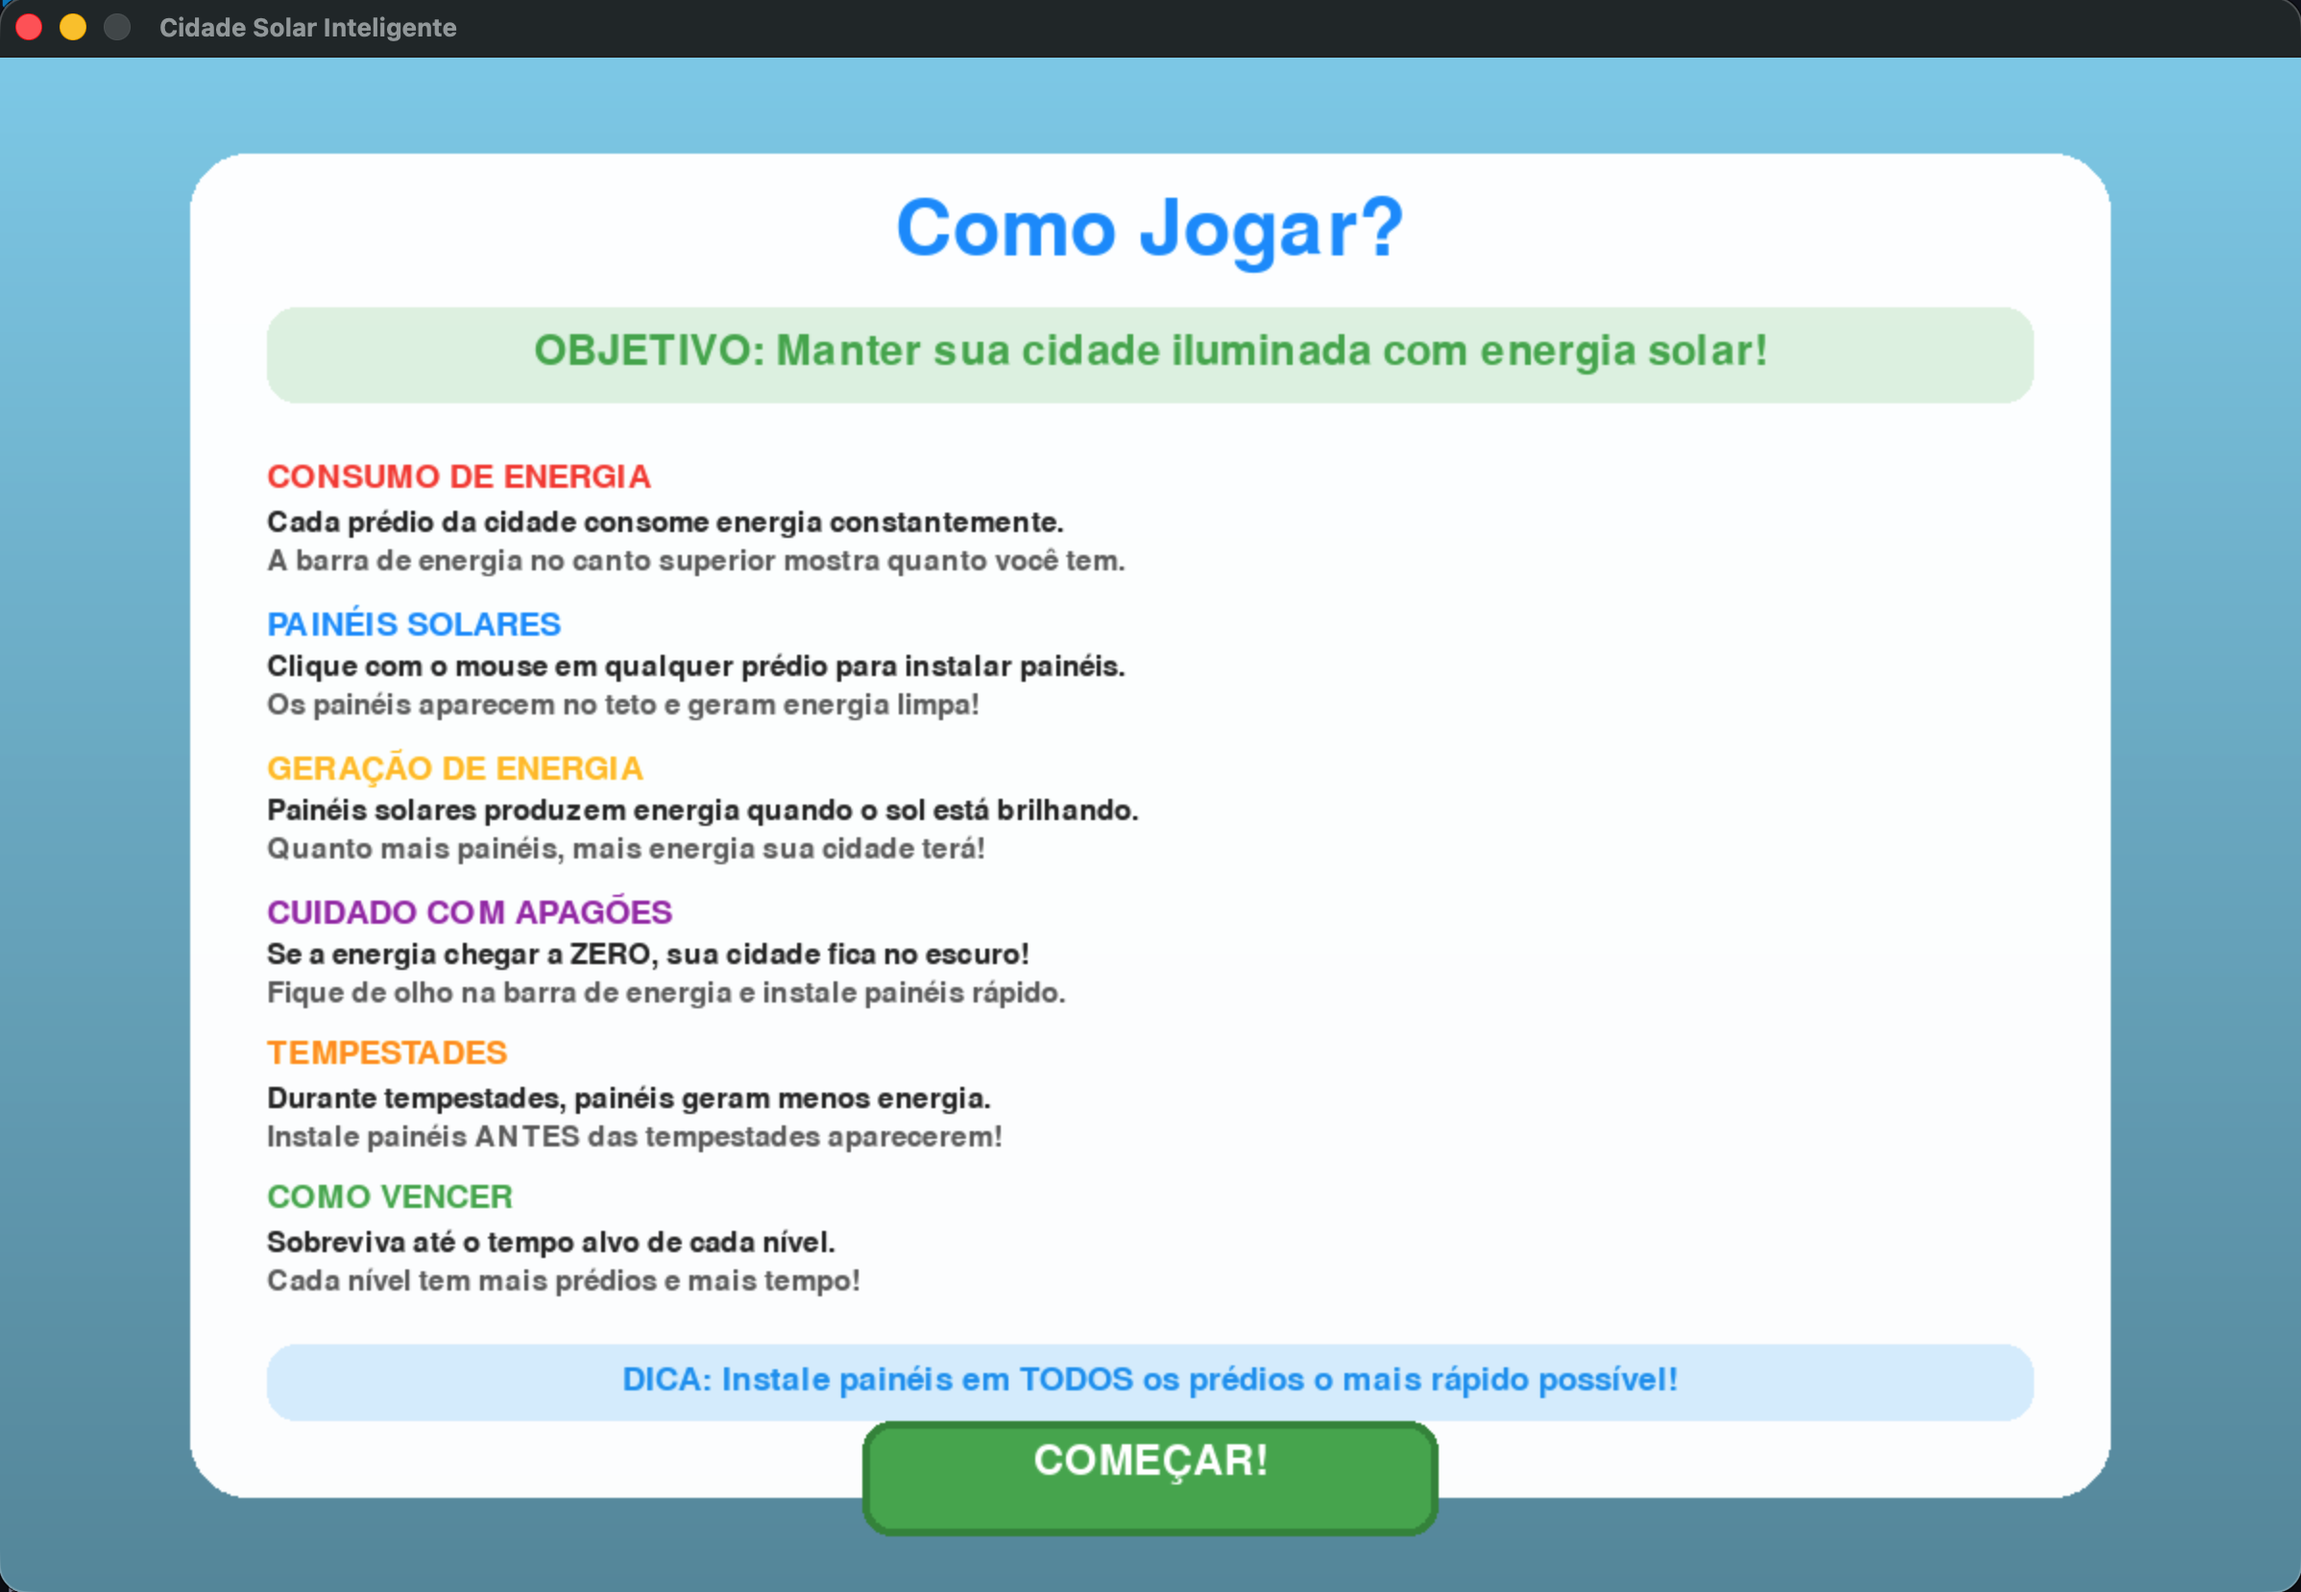
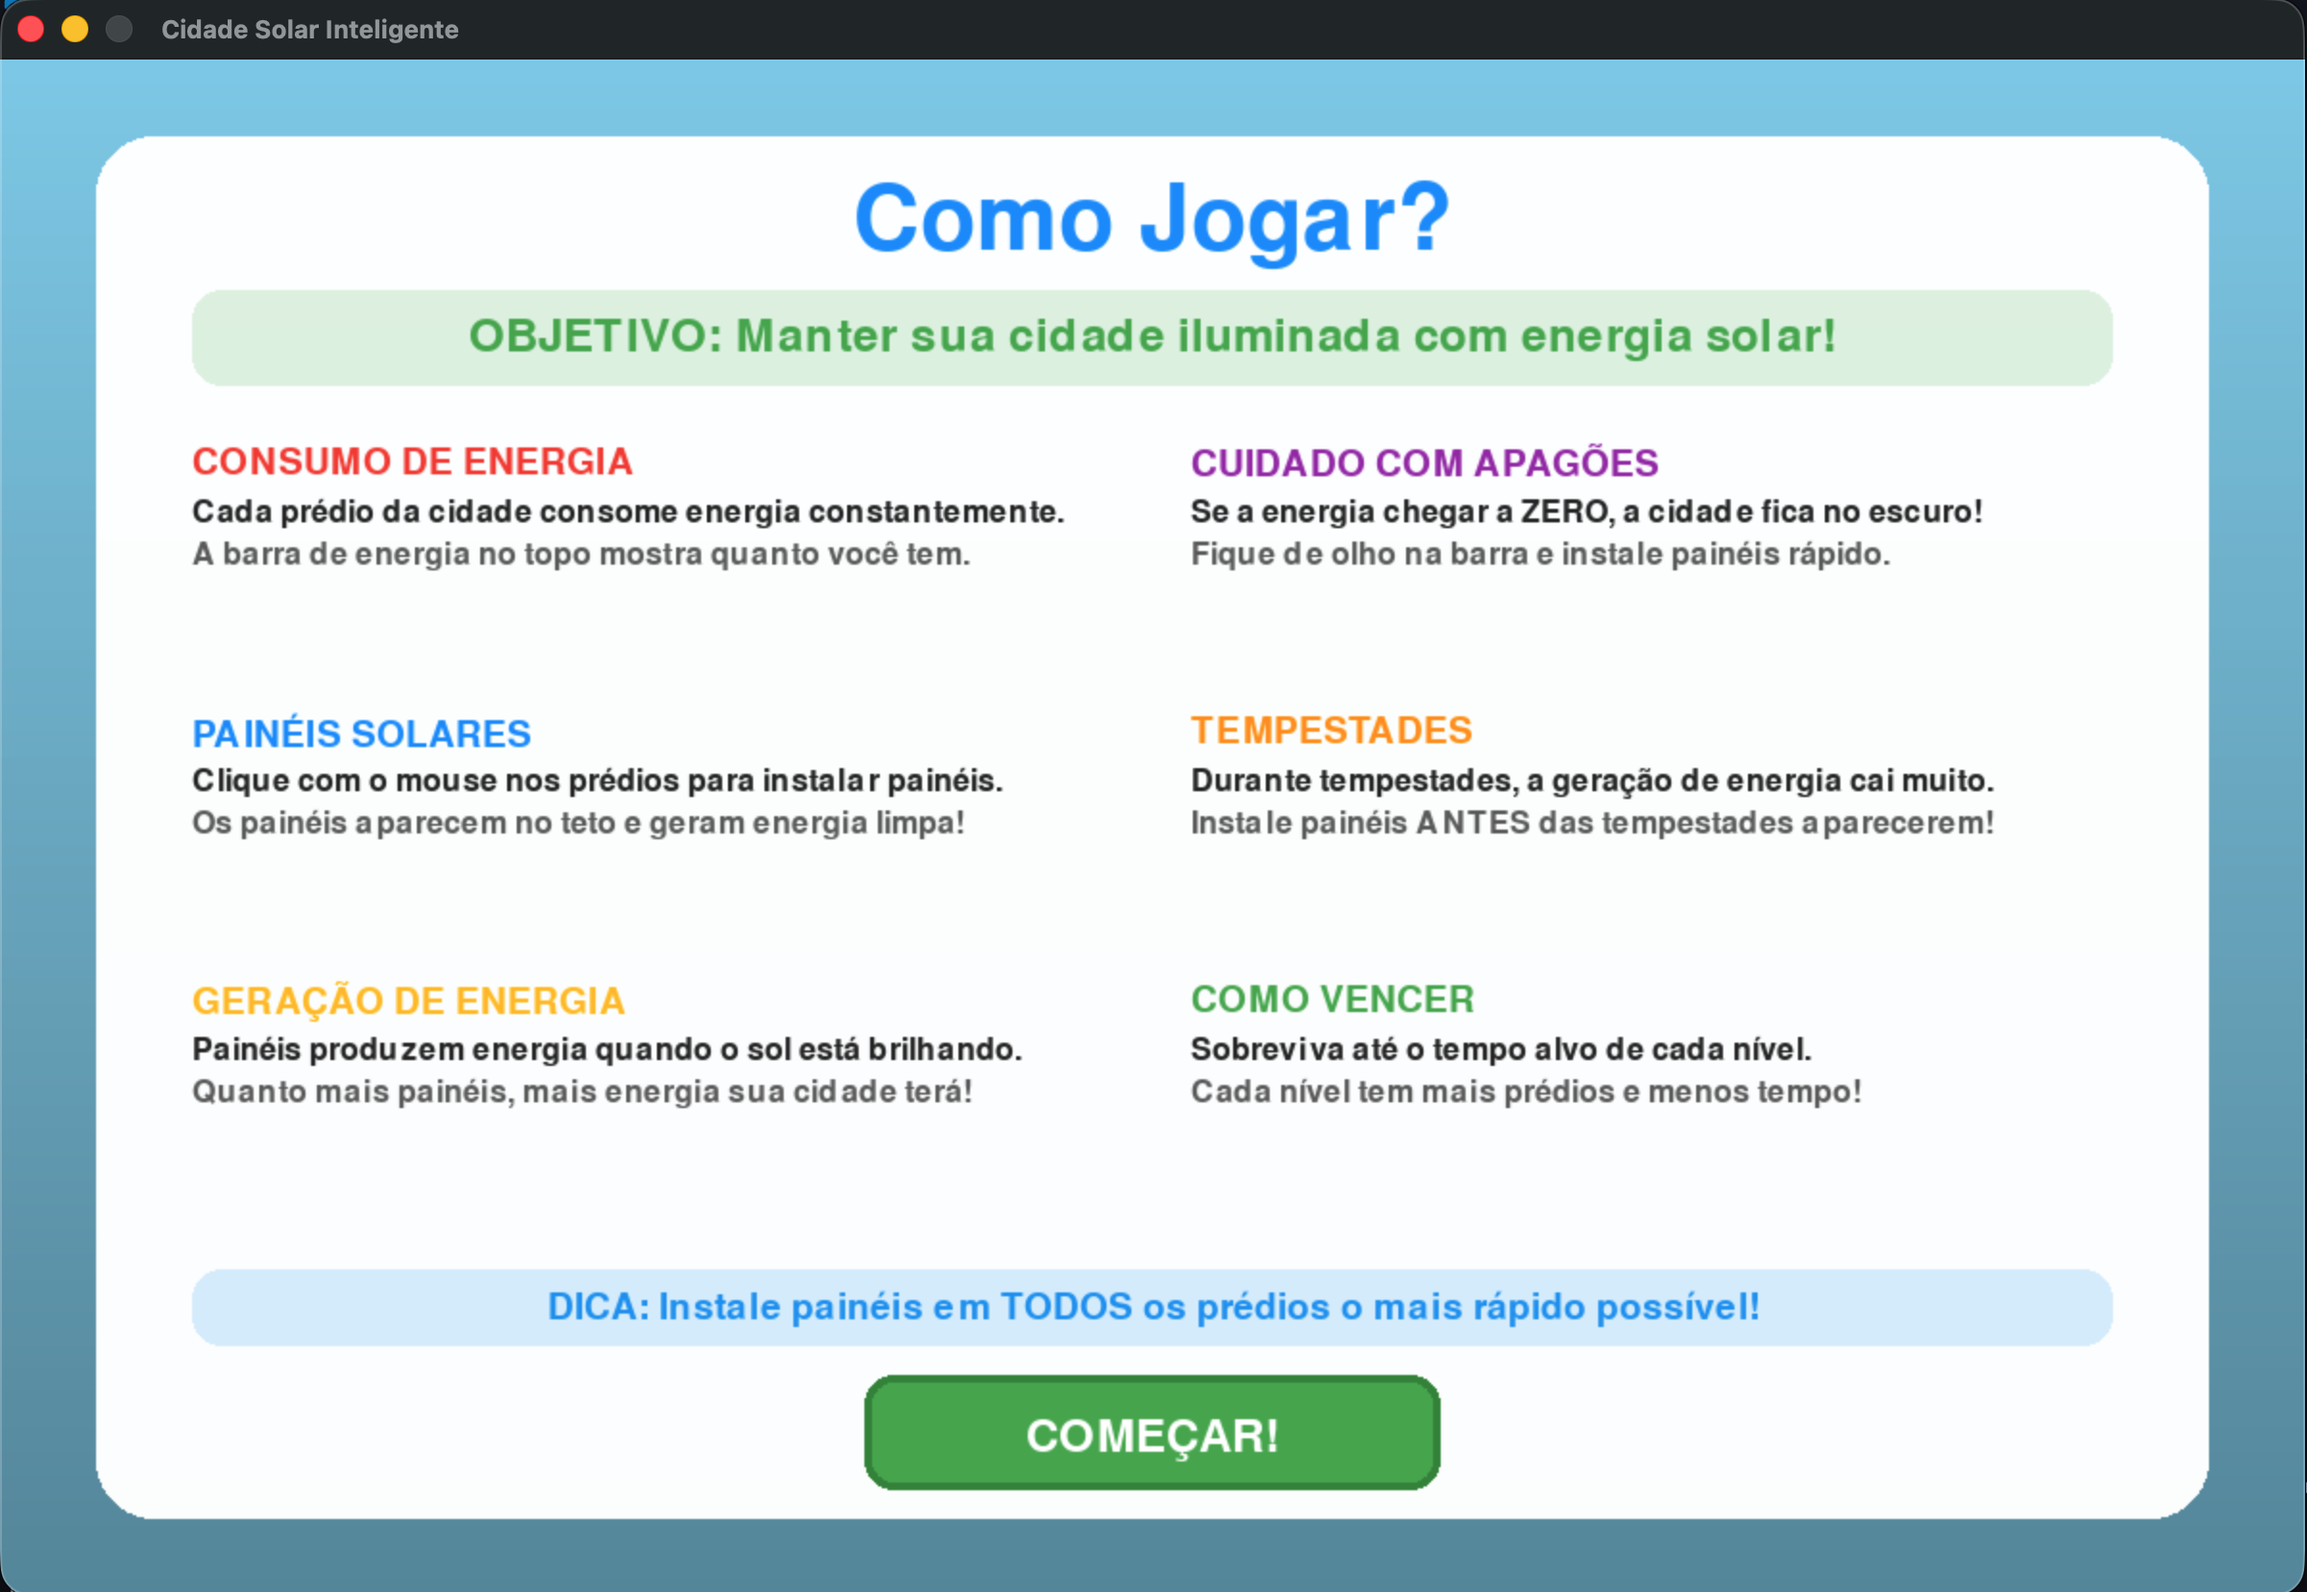
Ajustes do tutorial

diff --git a/main.py b/main.py
@@ -426,87 +426,106 @@ class Game:
             color = tuple(int(SKY_BLUE[i] * (1 - factor * 0.3)) for i in range(3))
             pygame.draw.line(surface, color, (0, y), (WIDTH, y))
 
-        panel = pygame.Surface((1000, 700), pygame.SRCALPHA)
-        pygame.draw.rect(panel, (255, 255, 255, 250), (0, 0, 1000, 700), border_radius=30)
-        surface.blit(panel, (WIDTH//2 - 500, 50))
+        # Painel de fundo
+        panel = pygame.Surface((1100, 720), pygame.SRCALPHA) # Aumentei um pouco a largura do painel
+        pygame.draw.rect(panel, (255, 255, 255, 250), (0, 0, 1100, 720), border_radius=30)
+        surface.blit(panel, (WIDTH//2 - 550, 40))
 
-        font_title = pygame.font.Font(None, 60)
-        font_subtitle = pygame.font.Font(None, 32)
-        font_normal = pygame.font.Font(None, 25)
-        font_small = pygame.font.Font(None, 22)
+        font_title = pygame.font.Font(None, 70)
+        font_subtitle = pygame.font.Font(None, 36)
+        font_normal = pygame.font.Font(None, 28) # Fonte um pouco maior
+        font_small = pygame.font.Font(None, 24)  # Fonte um pouco maior
 
         title = font_title.render("Como Jogar?", True, (30, 144, 255))
-        surface.blit(title, (WIDTH//2 - title.get_width()//2, 70))
+        surface.blit(title, (WIDTH//2 - title.get_width()//2, 60))
 
-        objective_bg = pygame.Surface((920, 50), pygame.SRCALPHA)
-        pygame.draw.rect(objective_bg, (76, 175, 80, 40), (0, 0, 920, 50), border_radius=15)
-        surface.blit(objective_bg, (WIDTH//2 - 460, 130))
+        # Faixa do Objetivo
+        objective_bg = pygame.Surface((1000, 50), pygame.SRCALPHA)
+        pygame.draw.rect(objective_bg, (76, 175, 80, 40), (0, 0, 1000, 50), border_radius=15)
+        surface.blit(objective_bg, (WIDTH//2 - 500, 120))
 
         objective = font_subtitle.render("OBJETIVO: Manter sua cidade iluminada com energia solar!", True, (76, 175, 80))
-        surface.blit(objective, (WIDTH//2 - objective.get_width()//2, 142))
+        surface.blit(objective, (WIDTH//2 - objective.get_width()//2, 132))
 
         instructions = [
             {
                 "title": "CONSUMO DE ENERGIA",
                 "desc": "Cada prédio da cidade consome energia constantemente.",
-                "detail": "A barra de energia no canto superior mostra quanto você tem.",
+                "detail": "A barra de energia no topo mostra quanto você tem.",
                 "color": (244, 67, 54)
             },
             {
                 "title": "PAINÉIS SOLARES",
-                "desc": "Clique com o mouse em qualquer prédio para instalar painéis.",
+                "desc": "Clique com o mouse nos prédios para instalar painéis.",
                 "detail": "Os painéis aparecem no teto e geram energia limpa!",
                 "color": (30, 144, 255)
             },
             {
                 "title": "GERAÇÃO DE ENERGIA",
-                "desc": "Painéis solares produzem energia quando o sol está brilhando.",
+                "desc": "Painéis produzem energia quando o sol está brilhando.",
                 "detail": "Quanto mais painéis, mais energia sua cidade terá!",
                 "color": (255, 193, 7)
             },
             {
                 "title": "CUIDADO COM APAGÕES",
-                "desc": "Se a energia chegar a ZERO, sua cidade fica no escuro!",
-                "detail": "Fique de olho na barra de energia e instale painéis rápido.",
+                "desc": "Se a energia chegar a ZERO, a cidade fica no escuro!",
+                "detail": "Fique de olho na barra e instale painéis rápido.",
                 "color": (156, 39, 176)
             },
             {
                 "title": "TEMPESTADES",
-                "desc": "Durante tempestades, painéis geram menos energia.",
+                "desc": "Durante tempestades, a geração de energia cai muito.",
                 "detail": "Instale painéis ANTES das tempestades aparecerem!",
                 "color": (255, 152, 0)
             },
             {
                 "title": "COMO VENCER",
                 "desc": "Sobreviva até o tempo alvo de cada nível.",
-                "detail": "Cada nível tem mais prédios e mais tempo!",
+                "detail": "Cada nível tem mais prédios e menos tempo!",
                 "color": (76, 175, 80)
             }
         ]
 
-        y = 210
-        margin_left = WIDTH//2 - 460
-        for inst in instructions:
-            title_text = font_normal.render(inst["title"], True, inst["color"])
-            surface.blit(title_text, (margin_left, y))
-            desc_text = font_small.render(inst["desc"], True, (40, 40, 40))
-            surface.blit(desc_text, (margin_left, y + 25))
-            detail_text = font_small.render(inst["detail"], True, (100, 100, 100))
-            surface.blit(detail_text, (margin_left, y + 45))
-            y += 75
+        # --- LÓGICA DE DUAS COLUNAS ---
+        start_y = 200
+        col_width = 480 # Largura de cada coluna
+        col_gap = 40    # Espaço entre colunas
+        left_x = WIDTH//2 - 500
+        right_x = WIDTH//2 + 20
 
-        tip_bg = pygame.Surface((920, 40), pygame.SRCALPHA)
-        pygame.draw.rect(tip_bg, (33, 150, 243, 40), (0, 0, 920, 40), border_radius=15)
-        surface.blit(tip_bg, (WIDTH//2 - 460, y + 10))
+        for i, inst in enumerate(instructions):
+            # Define se vai desenhar na esquerda (0,1,2) ou direita (3,4,5)
+            if i < 3:
+                x = left_x
+                y = start_y + (i * 140) # Espaçamento vertical
+            else:
+                x = right_x
+                y = start_y + ((i-3) * 140)
+
+            # Desenha o Bloco
+            title_text = font_normal.render(inst["title"], True, inst["color"])
+            surface.blit(title_text, (x, y))
+
+            desc_text = font_small.render(inst["desc"], True, (40, 40, 40))
+            surface.blit(desc_text, (x, y + 28))
+
+            detail_text = font_small.render(inst["detail"], True, (100, 100, 100))
+            surface.blit(detail_text, (x, y + 50))
+
+        # Dica final
+        tip_bg = pygame.Surface((1000, 40), pygame.SRCALPHA)
+        pygame.draw.rect(tip_bg, (33, 150, 243, 40), (0, 0, 1000, 40), border_radius=15)
+        surface.blit(tip_bg, (WIDTH//2 - 500, 630))
 
         tip = font_normal.render("DICA: Instale painéis em TODOS os prédios o mais rápido possível!", True, (33, 150, 243))
-        surface.blit(tip, (WIDTH//2 - tip.get_width()//2, y + 20))
+        surface.blit(tip, (WIDTH//2 - tip.get_width()//2, 640))
 
-        button_rect = pygame.Rect(WIDTH//2 - 150, 710, 300, 60)
+        # Botão Começar
+        button_rect = pygame.Rect(WIDTH//2 - 150, 685, 300, 60)
         pygame.draw.rect(surface, GRASS_GREEN, button_rect, border_radius=15)
         pygame.draw.rect(surface, DARK_GREEN, button_rect, 4, border_radius=15)
         continue_text = font_subtitle.render("COMEÇAR!", True, WHITE)
-        surface.blit(continue_text, (WIDTH//2 - continue_text.get_width()//2, 720))
+        surface.blit(continue_text, (WIDTH//2 - continue_text.get_width()//2, 705))
 
     def draw_game(self, surface):
         if self.storm_active:
